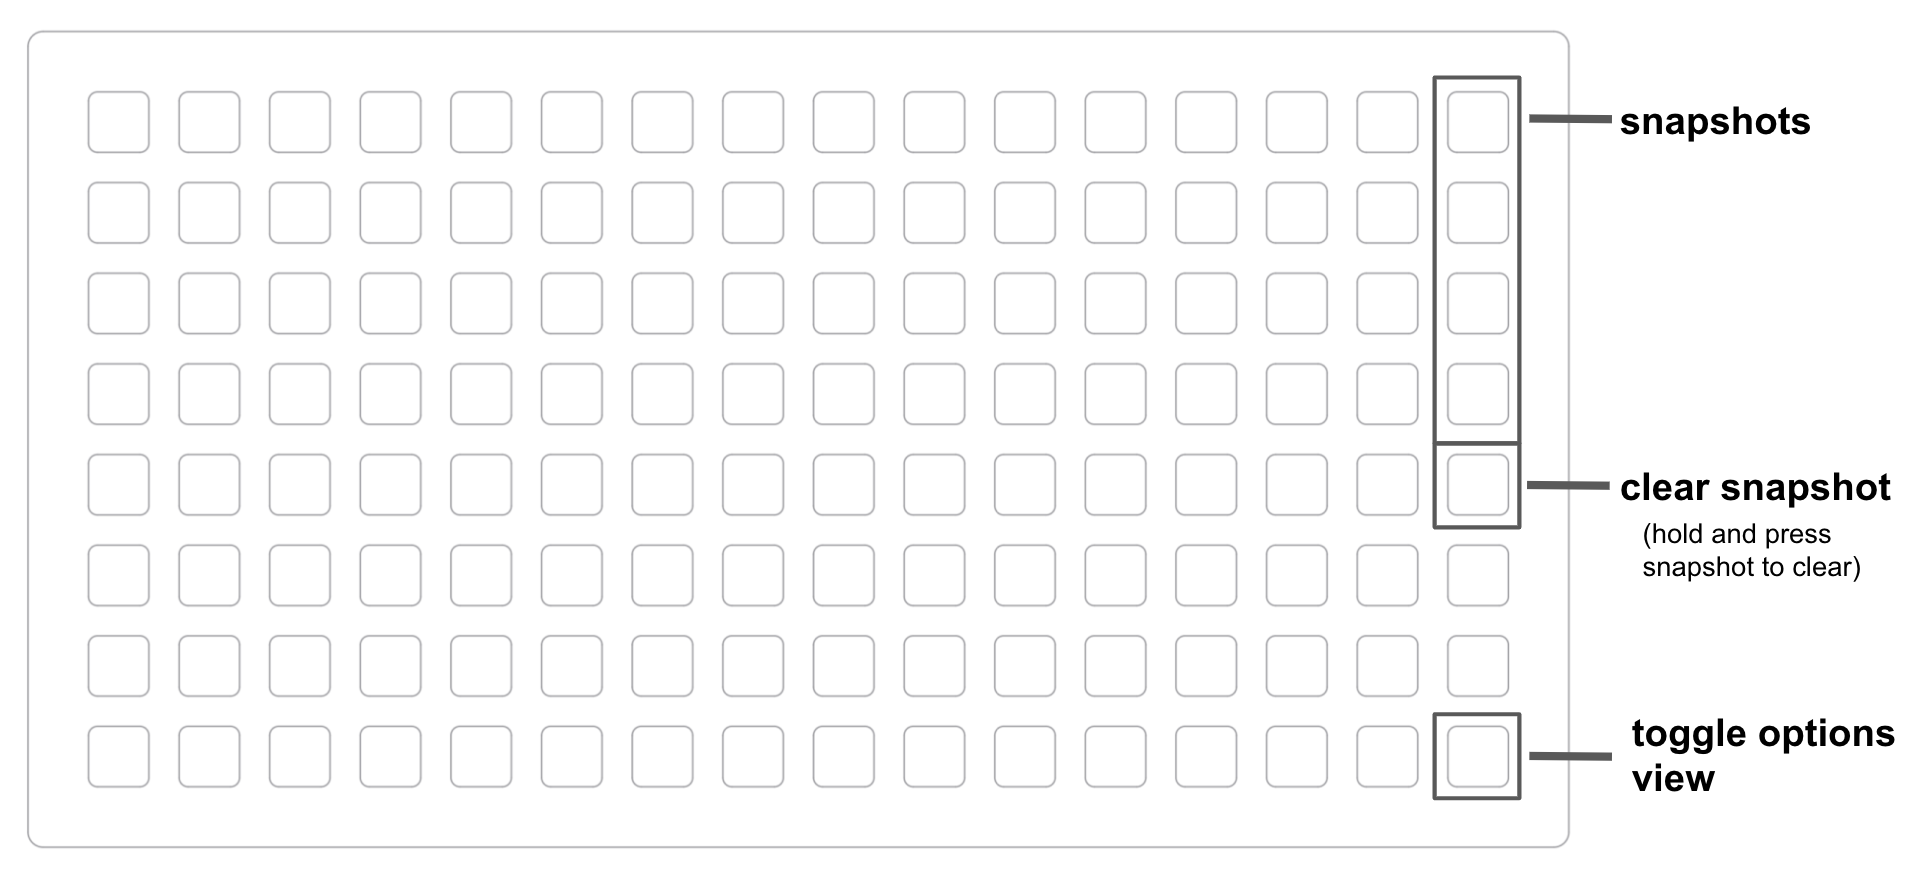
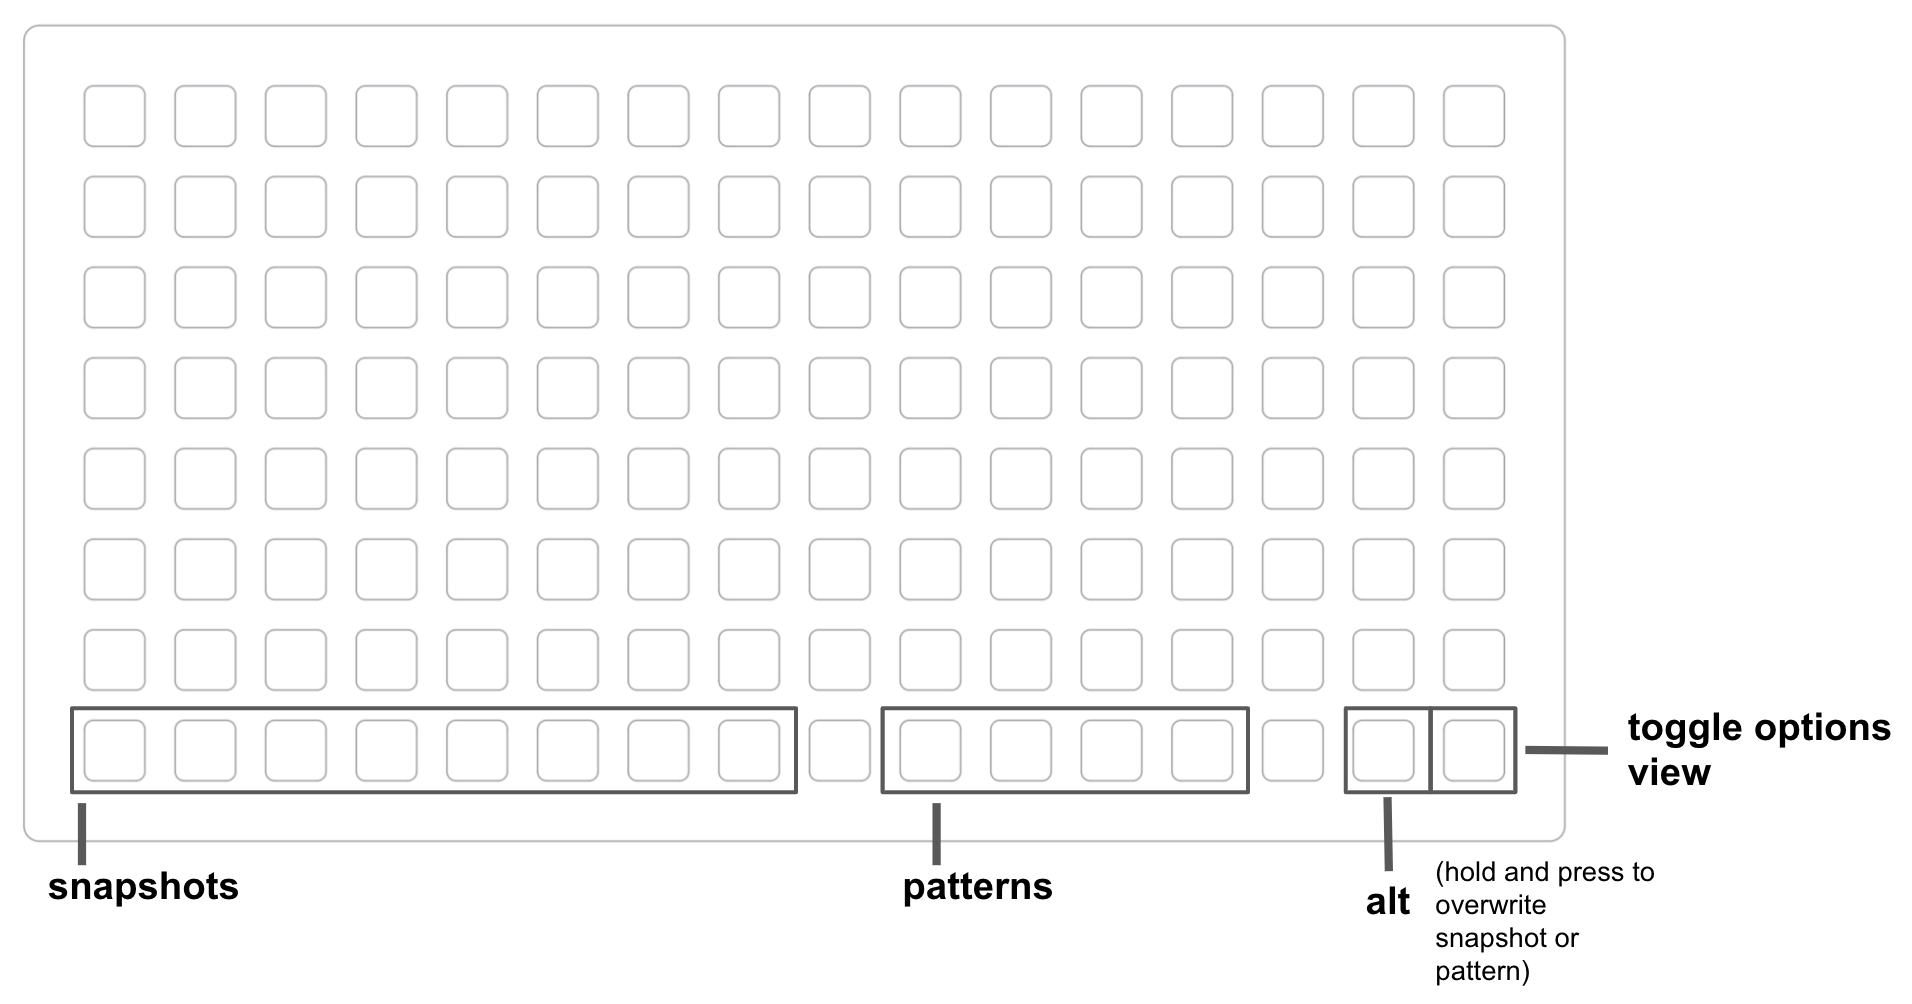
update readme

Changed region(s): [[0.0, 0.0, 0.9874, 0.9818], [0.1851, 0.8898, 0.216, 0.9205]]

diff --git a/README.md b/README.md
@@ -6,17 +6,19 @@
 
 ![](assets/main.png)
 
-Hold two pads in the main view (anywhere but the far right column) to draw a sequencer. Pads can be oriented vertically, horizontally, or diagonally, but must connect with a straight line.
+Hold two pads in the main view (anywhere but the far right column) to draw a sequence. Pads can be oriented vertically, horizontally, or diagonally, but must connect with a straight line.
 
-Whichever pad you pressed first will determine the direction of your sequencer. 
+Whichever pad you pressed first will determine the direction of your sequence. 
 
-Press any pad on your new sequencer to activate that note. 
+**You must press any pad on within your new sequence to turn that note on (or off).** 
 
-Hold the first and last pad of your sequencer to clear it (you can also clear it from the options view).
+Hold the first and last pad of your sequence to clear it. You can also clear it from the options view, by selecting that sequencer and pressing K3.
 
 There is a max of 8 sequencers. If you go over the max, they will be replaced in "first in first out" order  (so the 9th sequence will replace the first, 10th will replace the 2nd, etc).
 
-Press a snapshot pad to store the current state. If you press the same pad again, it will set all sequencers back to that state. To overwrite a snapshot, hold the "clear" pad and select the snapshot that you want to overwrite.   
+Press a snapshot pad to store the current state. If you press the same pad again, it will set all sequencers back to that state. To overwrite a snapshot, hold the "alt" pad and select the snapshot that you want to overwrite.   
+
+Press a pattern pad to record a snapshot pattern. Recording starts once you select a snapshot, and ends when you press the pattern pad again. Hold the "alt" pad and press a pattern to overwrite that pattern.
 
 ## options
 
